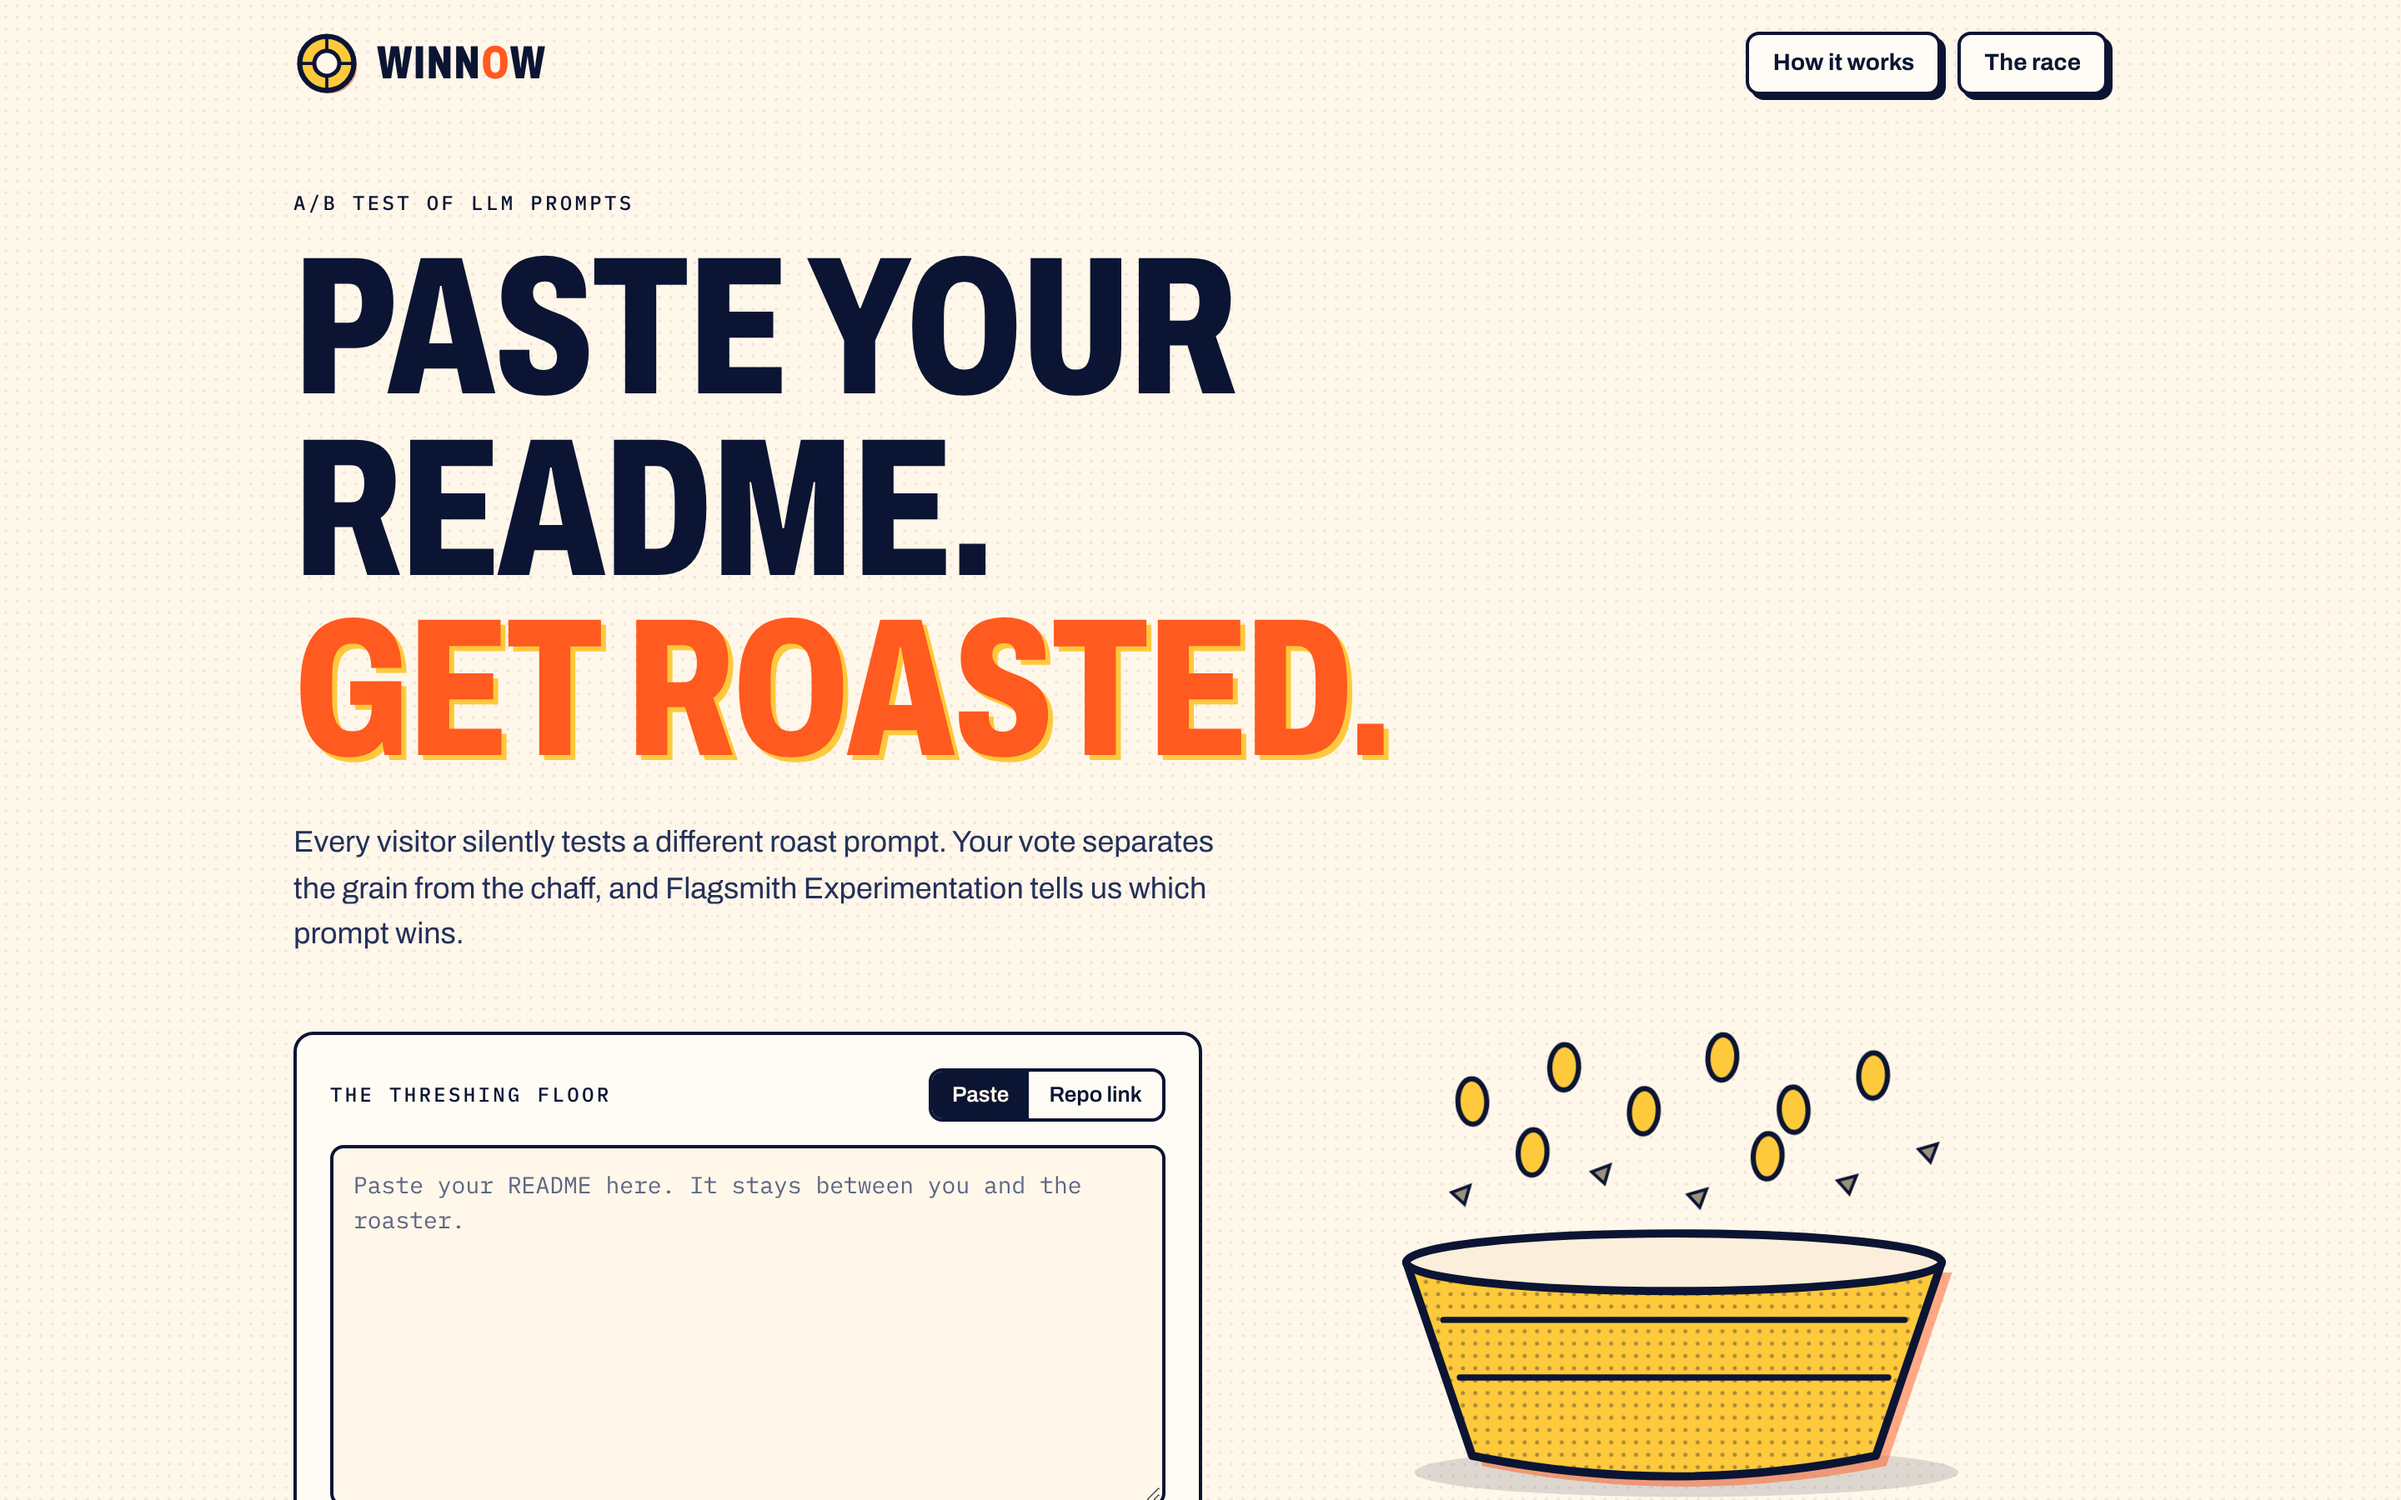
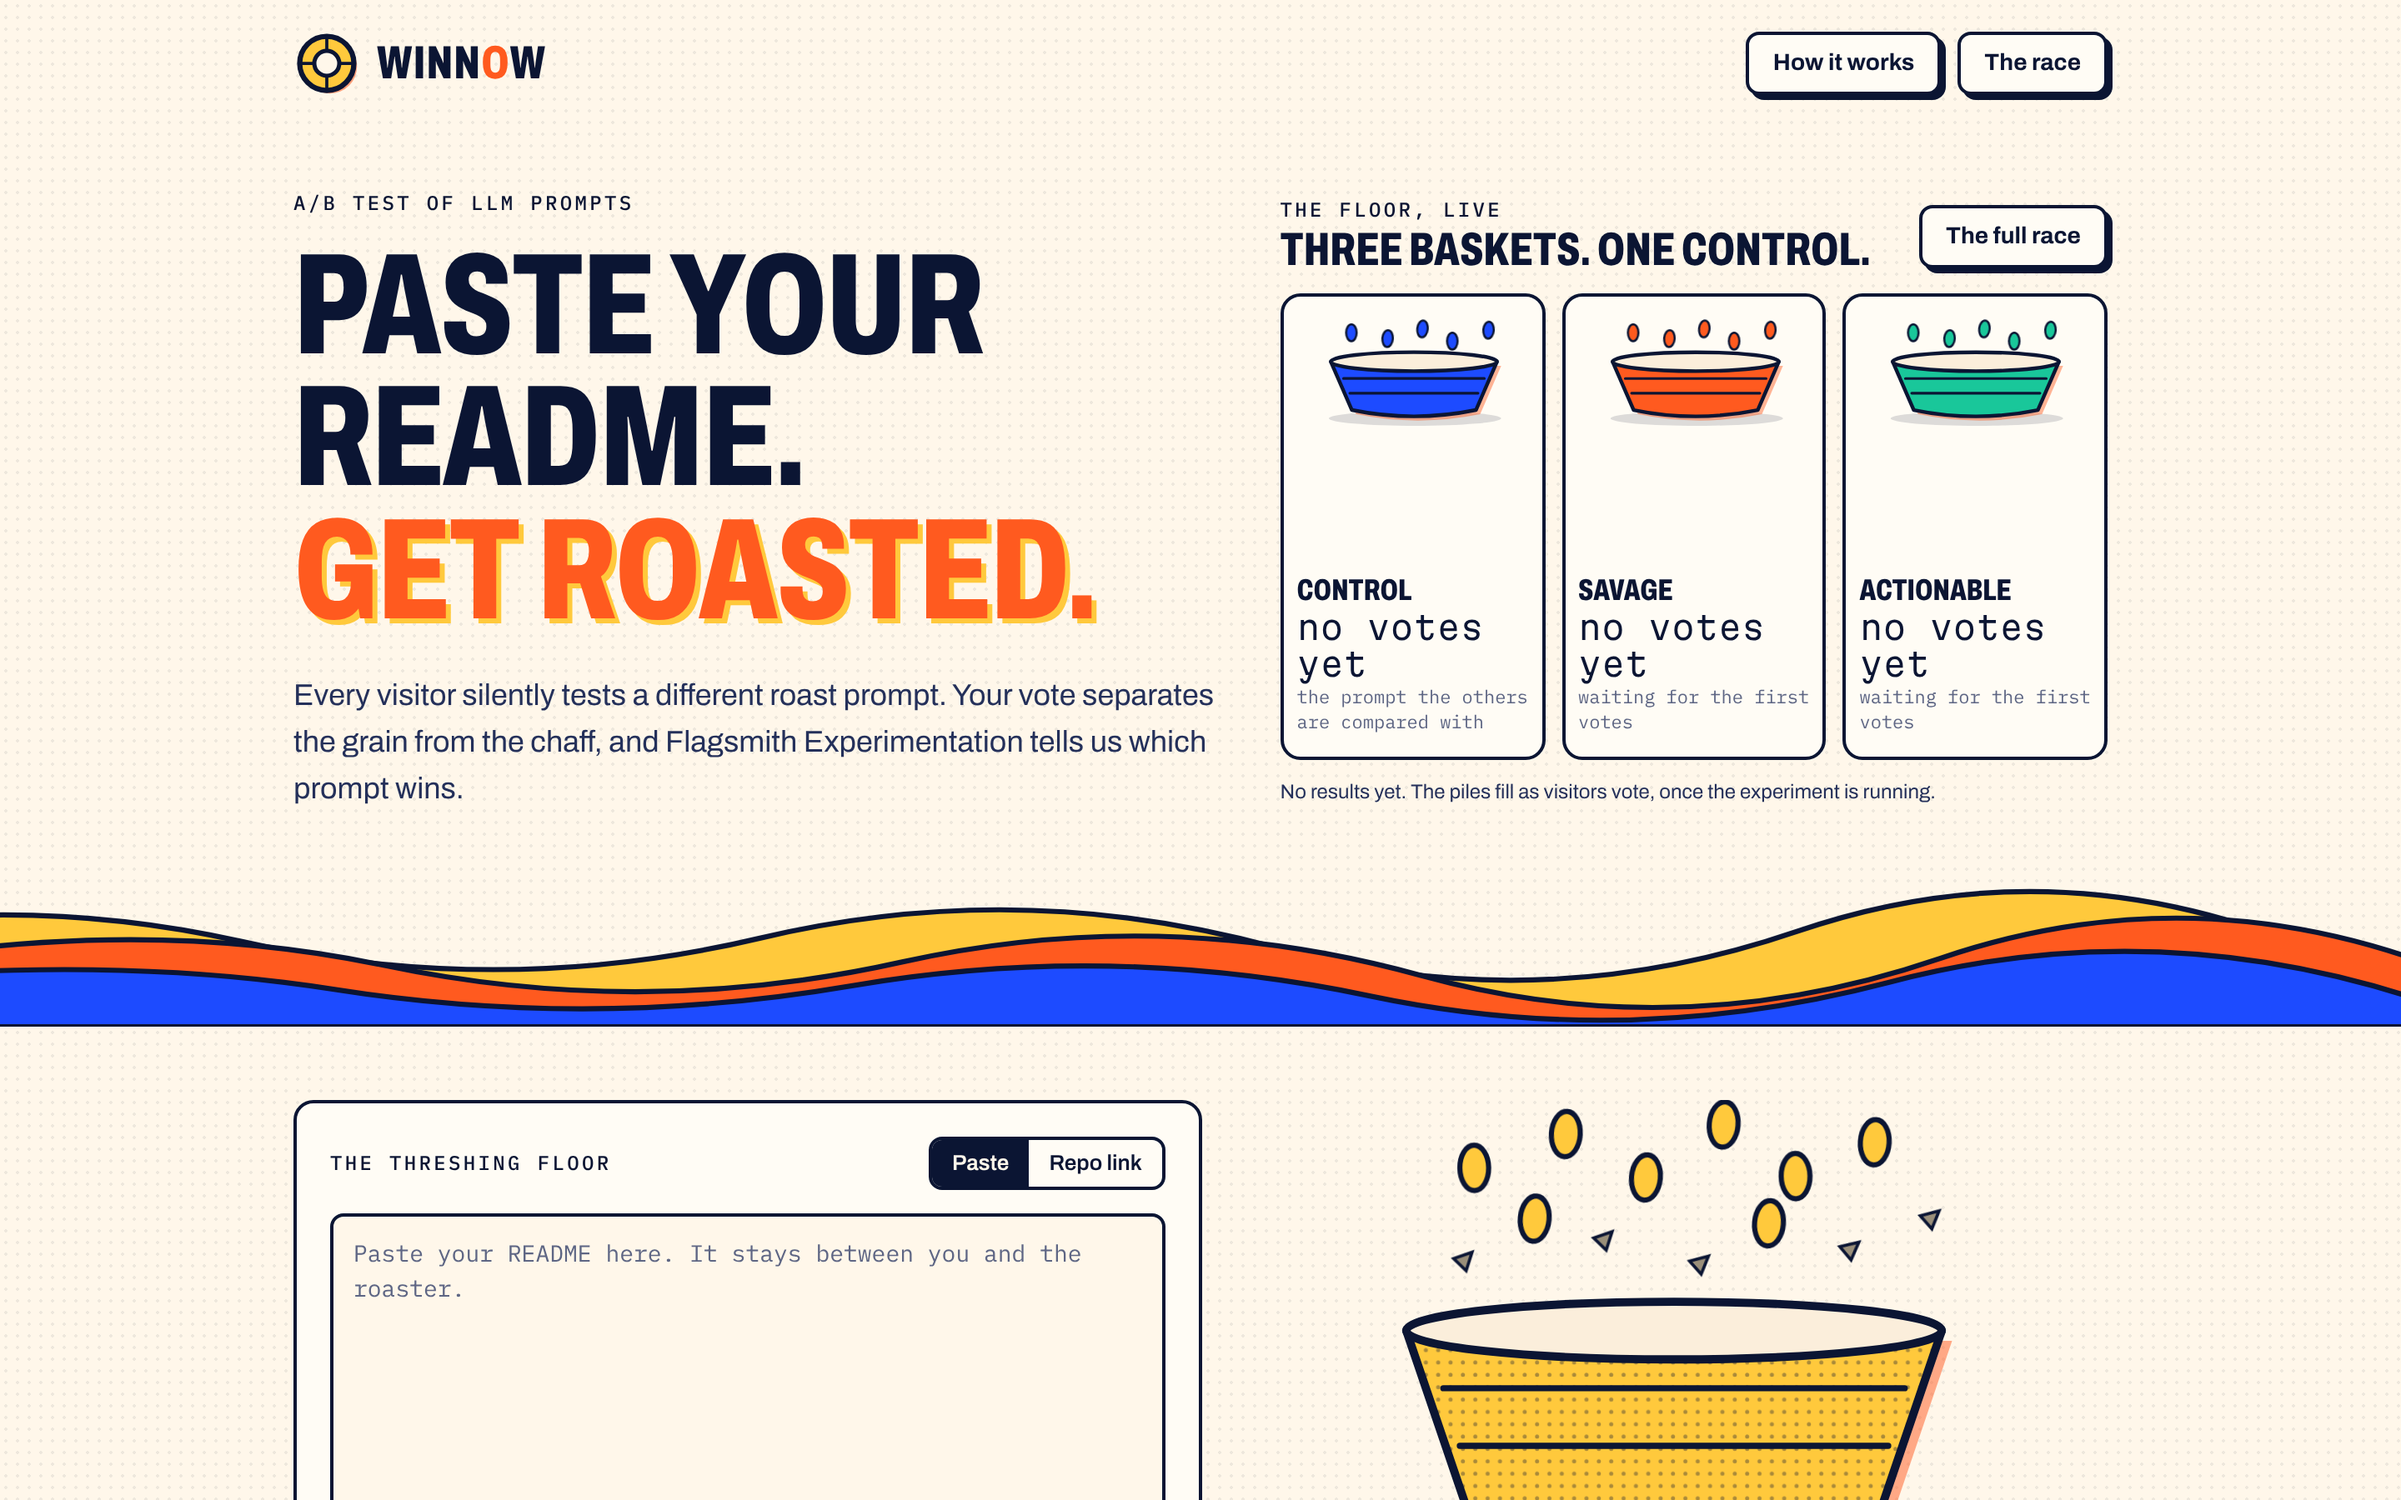
docs: describe the home page and record what the redesign taught

Changed region(s): [[0.0, 0.1244, 1.0, 1.0]]

diff --git a/docs/design.md b/docs/design.md
@@ -63,6 +63,22 @@ labels are **Grain** (keep it) and **Chaff** (toss it), drawn as printed stamps,
    is always labelled with `sim`.
 7. **Footer.** Paper-wave strip into deep sea, big wordmark, links to the repo, the Flagsmith project and the hackathon.
 
+## What the home page does (built 27 Nov)
+
+The first screen carries the experiment, not just a headline: the headline on the left, and on the right **the live floor**,
+three baskets (control, savage, actionable) with a pile under each as tall as the share of visitors who liked that prompt, and
+under each treatment Flagsmith's chance of beating control. It reads the same snapshot as `/race`. With no snapshot the piles are
+empty and say "no votes yet": nothing is invented. On narrow screens the floor moves to *after* the input, because the input is
+the action and the floor is the display.
+
+- **A strip of paper waves** (gold, orange, sea blue, each with a 3 px ink edge) sits under the hero text and drifts by transform.
+  An earlier version put big translucent sheets *behind* the headline; they hurt contrast and read as a blunt block, so they are
+  gone. Decoration never sits behind text that has to be read.
+- **The roast wipes in** (a clip-path reveal) instead of appearing.
+- **Your vote lands.** After voting, a kernel (or a bit of chaff) flies from the stamp you pressed to the prompt you tasted and the
+  name pulses. It waits for the reveal's entrance to settle, and is skipped under reduced motion.
+- **The footer and the wave strip are full-bleed;** the content keeps its column.
+
 ## Graphics (all made for Winnow)
 
 - Basket, kernels, chaff, stamps, paper sheets and the sun: hand-built inline SVG with fine grain, halftone and a

diff --git a/README.md b/README.md
@@ -8,7 +8,7 @@
 
 **Let your users pick the winning prompt.**
 
-![Winnow home page: "Paste your README. Get roasted." with the README input and the winnowing basket](docs/assets/home.png)
+![Winnow home page: the headline, and the live floor with three baskets (empty here: no votes yet), above the paper-wave strip](docs/assets/home.png)
 
 Winnow is a README roaster that runs a real A/B test on LLM prompts. Every visitor silently gets one of three roast
 prompts from a multivariate Flagsmith flag. They vote **grain** (keep it) or **chaff** (toss it), and Flagsmith's Bayesian
@@ -82,6 +82,8 @@ per arm, then run `npm run ship -- --dry-run`. It prints the exact `flagsmith fl
 - **The decision rule is pre-registered and hashed.** `prereg/experiment-1.md` is written before any data, hashed, and tagged;
   the experiment's hypothesis in Flagsmith is its text word for word, and the setup refuses to start an experiment whose
   file has changed since it was hashed. The habit comes from a teammate's repo, [Fork in the Bill](https://github.com/Prashant-thakur77/fork-in-the-bill).
+- **The home page shows the experiment.** The first screen carries the live floor: three baskets, with piles as tall as each
+  prompt's like rate and, under each treatment, its chance of beating control. Your vote then visibly lands in the prompt you tasted.
 - **An AI judge, kept honest.** Before any visitor, an LLM scores what each prompt produces on six sample READMEs; afterwards `/race`
   shows whether the judge's favourite matched the visitors'. It is labelled as not Flagsmith data, cannot ship anything, and
   says that three prompts make one comparison, not a measure ([docs/judge.md](docs/judge.md)).

diff --git a/docs/LEARNINGS.md b/docs/LEARNINGS.md
@@ -81,3 +81,13 @@ broke, surprised you, or changed a decision, and say what the code does about it
 - **A fallback in a one-liner swallowed uncommitted work.** `git checkout <file> || git stash` was meant to undo a test edit;
   the file was untracked, the checkout failed, and the stash took every uncommitted change with it. `git stash pop` restored
   all of it. Do not write a destructive fallback after `||`.
+- **Decoration behind text is a mistake, even when it looks fine in the abstract.** The first attempt at depth put two large translucent
+  paper sheets behind the hero headline. In the screenshot they were a blunt block with hard edges that lowered the text's contrast.
+  Replaced by a strip *under* the text. Review the actual pixels, not the idea.
+- **A teammate's hero beat ours on the first screen.** His board shows the whole experiment above the fold; ours showed a headline and
+  empty space, with the experiment far down the page. The fix was not more decoration but moving the real data (the live floor) into
+  the hero, and moving it *below* the input on phones, where the action matters more than the display.
+- **A stale server fooled the first screenshots.** `pkill -f "next start"` does not match the running `next-server` process, so an old
+  server on the same port kept serving HTML that pointed at deleted build files (the console showed a CSS MIME-type error). Kill
+  `next-server`, use a fresh port per run, and treat any console error as a reason to distrust the picture.
+

diff --git a/docs/STATUS.md b/docs/STATUS.md
@@ -15,6 +15,7 @@ yet, so no result exists. The steps that need accounts are in [human-runbook.md]
 | `npm run smoke` | 9 of 9 checks pass against a local production build (preview mode) |
 | `npm run ship` | `--dry-run` prints the right `flagsmith flag update --weight` command; typing anything but the winner's name cancels; simulated data never ships (unit test) |
 | `npm run setup:flagsmith` | `--dry-run` prints every CLI call and JSON body; the bodies match the format in Flagsmith's own coding-agent setup prompt |
+| Home page: live floor in the hero, wave strip, roast wipe, vote landing | Rendered in headless Chromium at 1440 and 390 px with a simulated snapshot and with none; no console errors, no horizontal overflow on mobile; the kernel flight was observed in flight in screenshots taken during the animation |
 | Remote prompts, split check, plain-English explanation | Unit-tested (`resolvePrompt`, `splitCheck`, `explain`); the race page rendered in Chromium with a simulated snapshot showing the explanation and a passing split check |
 | Flagsmith SDK calls | `getExperimentFlag`, `trackEvent`, `flushEvents`, `close` and `Flag.variant` read from `@flagsmith/nodejs` 9.4.0's type definitions |
 | Flagsmith CLI commands | Every command the scripts run was checked against the CLI's own `--help` (v2, installed from npm in the sandbox) |

diff --git a/CHANGELOG.md b/CHANGELOG.md
@@ -2,6 +2,19 @@
 
 Dates are UTC. Versions are this repository's own; they are not published anywhere.
 
+## v0.10.0 — 27 Nov 2026 (the home page shows the experiment)
+
+Added
+- **The live floor in the hero**: three baskets with piles as tall as each prompt's like rate and, under each treatment, its chance of
+  beating control, from the same snapshot as `/race`; an honest empty state with no results. On narrow screens it moves below the input.
+- **Your vote lands**: a kernel flies from the stamp to the prompt you tasted. The roast wipes in. A strip of paper waves sits under
+  the hero. All of it respects reduced motion and moves by transform and opacity only.
+
+Changed
+- The headline is smaller inside the two-column hero so it stays on three lines; the footer is full-bleed; on phones the nav hides
+  its first button instead of wrapping onto the logo.
+- The README's home-page image and the deck were rebuilt from the new page, in its empty state (what a deployment shows today).
+
 ## v0.9.0 — 27 Nov 2026 (an AI judge, kept honest)
 
 Added
